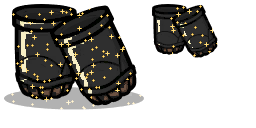
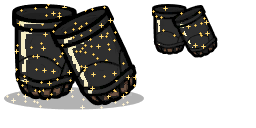
Leftovers: repo link, Self-sealing Airlocks 1.0.2, Gas-Tight Doors link
- Patreon posts and Auto Refinement's mod-options link point at
  github.com/MythraPS/oni-mods (repo renamed); unused Nexus placeholders gone.
- Self-sealing Airlocks 1.0.2 (already on the Workshop): insulated doors
  insulate again while closed.
- README: Gas-Tight Doors Workshop link.
- Bundled Patreon post draft.
- Snazzy item/body art as regenerated by the More Clothing build.

Claude-Session: https://claude.ai/code/session_015dFpymUa3LXZduRknSUUvX

diff --git a/SelfSealingAirlocksFixed/src/SelfSealingAirlocks.cs b/SelfSealingAirlocksFixed/src/SelfSealingAirlocks.cs
@@ -132,6 +132,15 @@ namespace SelfSealingAirlocks
                     HandleVector<Game.CallbackInfo>.Handle handle = Game.Instance.callbackManager.Add(new Game.CallbackInfo(cb_closed, false));
                     SimMessages.ReplaceAndDisplaceElement(cell, element.ElementID, CellEventLogger.Instance.DoorClose, mass_per_cell, element.Temperature, byte.MaxValue, 0, handle.index);
                 }
+
+                // Insulation, as the vanilla method sets it: a closed door's cells use the door's
+                // insulationModifier (what makes an Insulated Door insulate), an open door's are reset
+                // to 1. Skipping the original method skipped this too, so insulated doors conducted
+                // heat like plain tiles.
+                if (__instance.insulationModifier != 1f)
+                {
+                    SimMessages.SetInsulation(cell, is_door_open ? 1f : __instance.insulationModifier);
+                }
             }
 
             // Skip the original method

diff --git a/AutoRefinement/src/AutoRefinementOptions.cs b/AutoRefinement/src/AutoRefinementOptions.cs
@@ -12,7 +12,7 @@ namespace AutoRefinement
     // checkboxes, and ManualBuildings stays in the JSON for per-building exceptions.
     [JsonObject(MemberSerialization.OptIn)]
     [ConfigFile("AutoRefinement.json", true, false)]
-    [ModInfo("https://github.com/SattaRIP/oni-mods")]
+    [ModInfo("https://github.com/MythraPS/oni-mods")]
     [RestartRequired]
     public sealed class AutoRefinementOptions
     {

diff --git a/PATREON_POST_BUNDLE.md b/PATREON_POST_BUNDLE.md
@@ -1,0 +1,124 @@
+# Patreon post draft — ONI mods (the three without their own post)
+
+**Title:** Three more Oxygen Not Included mods, all free on the Workshop
+
+> Critter Turret and Longer Bridges are deliberately NOT here — they already have
+> their own posts. This covers the three that never got one. Their individual
+> drafts remain in each mod folder.
+>
+> Suggested images, in order: `AutoRefinement/preview.png`,
+> `CritterWrangler/preview.png`, `MoreClothing/preview2.png`.
+
+---
+
+A few more Oxygen Not Included mods that never got a proper introduction, so here
+they are together. **Every one is free and standalone** — none of them require
+each other or anything else, and none of them write to your save, so you can add
+or drop any of them mid-colony.
+
+---
+
+## ⚙ Auto Refinement
+
+Refining coal into refined carbon, crushing rock, forging glass — all of it needs
+a Duplicant standing there doing nothing interesting while the machine does the
+work. An Auto-Sweeper can already feed the building and take the product away.
+The one thing it can't do is press the button.
+
+Here's what I found while digging into it: **the game already supports this.**
+`ComplexFabricator` carries a "no operator needed" switch, and seven vanilla
+buildings already use it — the Kiln, Rubber Maker, Smoker, Chlorinator, Data
+Miner, Food Dehydrator and Uranium Centrifuge all run on their own. Auto
+Refinement extends that to everything else.
+
+- ✅ **Metal Refinery, Rock Crusher, Glass Forge, Supermaterial Refinery**,
+  presses, kilns, cooking stations, apothecaries — and buildings added by **other
+  mods**, picked up automatically
+- ✅ **Duplicants can still help.** By default the errand stays, so someone may
+  wander over and work it — it just isn't required. Normal speed on its own,
+  **half again as fast** with a Duplicant, Machinery skill on top. Both rates
+  configurable from 1% to 500%
+- ✅ Or turn the errand off entirely for **silent automation** — Duplicants
+  ignore the building completely
+- ✅ **The Desalinator empties itself**, dropping its salt where a Duplicant
+  would have left it so an Auto-Sweeper still collects it
+- ✅ **Mod Options** groups everything by category — refinement, cooking,
+  medicine, clothing, crafting, research — so you automate some and leave others
+  manual
+
+👉 https://steamcommunity.com/sharedfiles/filedetails/?id=3782032937
+
+---
+
+## 🩵 Critter Wrangler
+
+A **teal robo-miner fitted with a Rancher's net gun**. It catches surplus
+critters at range and leaves them bagged on the ground for a Duplicant to carry
+to a Critter Drop-Off — hands-off population control without killing anything.
+
+The reason it exists is a genuine gap in the vanilla game. The Critter Drop-Off's
+"auto-wrangle surplus" option **only ever fires for adults** — the check it runs
+reads a flag that the Drop-Off never sets, so it sits permanently off for babies.
+If you want to thin a nursery, you're marking critters by hand. The Wrangler
+lists babies as their own rows and handles exactly the case vanilla can't.
+
+- ✅ **It does the catching itself.** It doesn't flag a critter and wait for a
+  Rancher to walk over — it fires the net and the critter ends up bagged. **No
+  Ranching skill needed.** Duplicants still do the hauling
+- ✅ **Per-species thresholds**, with **babies counted as their own rows**, so one
+  overcrowded species gets thinned without touching the rest
+- ✅ Pick exactly what it's allowed to catch from a **species checklist**
+- ✅ **Mounts on floor, wall or ceiling** with a directional arc, like the
+  Robo-Miner — line of sight required
+- ✅ Critters that can never be wrangled — Morbs, adult Beetas, Shockworms — are
+  skipped and left out of the count, so ticking one is a harmless no-op instead
+  of jamming the building on a target it can't reach
+- ✅ Green Automation signal when every selected species is at or below threshold
+- ✅ Works submerged; not industrial machinery
+- ✅ Deliberately unhurried — catching something alive should read as work, and at
+  full speed a ranch emptied faster than you could watch
+
+Shipping menu. Refined metal, and it never targets Duplicants.
+
+👉 https://steamcommunity.com/sharedfiles/filedetails/?id=3775520629
+
+---
+
+## 🧥 More Clothing
+
+Your dupes deserve a wardrobe. Five new garments, tailored at machines you
+already own.
+
+**At the Clothing Refashionator:**
+
+- 🧥 **Winter Coat** — a Warm Sweater rebuilt into a thick insulated coat with
+  markedly better cold protection
+- 🟡 **Soft Suit** — the centrepiece: a lightweight, **checkpoint-free**
+  alternative to the Atmo Suit. Cold, heat and radiation protection, sealed
+  against airborne germs and wetness, a big air reserve dupes actually breathe
+  from, fewer bathroom trips — and a helmet that **assembles piece by piece over
+  the dupe's head** when their surroundings turn dangerous, then retracts when
+  they're safe. There's no air tank, so it delays suffocation rather than
+  preventing it: mid-game "good enough" gear by design
+- ✨ **Snazzy Swimwear** (+25 decor) and **Snazzy Rubber Boots** (+15 decor) —
+  gold-sequin upgrades of the Bionic Booster Pack garments
+
+**At the Textile Loom:**
+
+- 👞 **Shoes** (+15 decor) — black-and-gold dress shoes, pure flourish
+
+The Soft Suit and Snazzy recipes use Bionic Booster Pack garments as
+ingredients; Winter Coat and Shoes are DLC-free.
+
+👉 https://steamcommunity.com/sharedfiles/filedetails/?id=3765092134
+
+---
+
+All three are MIT-licensed and the source for every one is here:
+👉 **https://github.com/MythraPS/oni-mods**
+
+Free for everyone, and staying that way — if you'd like to support more mods like
+these, a pledge keeps the lights on. 💛 Bug reports, ideas and "could it also
+do X" welcome in the comments.
+
+*Auto Refinement bundles PLib by Peter Han (MIT) for its options screen.*

diff --git a/LongerBridges/PATREON_POST.md b/LongerBridges/PATREON_POST.md
@@ -26,8 +26,7 @@ Bridge (鹊桥) setup, the switch is **seamless**: the liquid/gas/wire bridges y
 already placed keep working, no rebuild needed.
 
 👉 **Steam Workshop:** https://steamcommunity.com/sharedfiles/filedetails/?id=3751316059
-👉 **Nexus Mods:** [LINK AFTER UPLOADING]
-👉 **Source (MIT):** https://github.com/SattaRIP/oni-mods
+👉 **Source (MIT):** https://github.com/MythraPS/oni-mods
 
 Free for everyone — if you'd like to support more mods like this, a pledge keeps
 the lights on. 💛 Bug reports and ideas welcome in the comments.

diff --git a/CritterTurret/PATREON_POST.md b/CritterTurret/PATREON_POST.md
@@ -27,8 +27,7 @@ Find it in the **Shipping** menu next to the Robo-Miner. 120 W, refined metal.
 **Fully standalone — no other mods required.**
 
 👉 **Steam Workshop:** https://steamcommunity.com/sharedfiles/filedetails/?id=3756399185
-👉 **Nexus Mods:** [LINK AFTER UPLOADING]
-👉 **Source (MIT):** https://github.com/SattaRIP/oni-mods
+👉 **Source (MIT):** https://github.com/MythraPS/oni-mods
 
 Free for everyone — if you'd like to support more mods like this, a pledge keeps
 the lights on. 💛 Bug reports and ideas welcome in the comments.

diff --git a/MoreClothing/PATREON_POST.md b/MoreClothing/PATREON_POST.md
@@ -33,8 +33,7 @@ Bionic Booster Pack garments as ingredients; Winter Coat and Shoes are
 DLC-free.
 
 👉 **Steam Workshop:** https://steamcommunity.com/sharedfiles/filedetails/?id=3765092134
-👉 **Nexus Mods:** [LINK AFTER UPLOADING]
-👉 **Source (MIT):** https://github.com/SattaRIP/oni-mods
+👉 **Source (MIT):** https://github.com/MythraPS/oni-mods
 
 Free for everyone — if you'd like to support more mods like this, a pledge
 keeps the lights on. 💛 Bug reports and ideas welcome in the comments.

diff --git a/LongerBridges/PATREON_POST_1.1.0.md b/LongerBridges/PATREON_POST_1.1.0.md
@@ -30,7 +30,7 @@ Details that matter:
   everything else works with zero dependencies
 
 👉 **Steam Workshop:** https://steamcommunity.com/sharedfiles/filedetails/?id=3751316059
-👉 **Source (MIT):** https://github.com/SattaRIP/oni-mods
+👉 **Source (MIT):** https://github.com/MythraPS/oni-mods
 
 Free as always — pledges fund the coffee that fuels the next building. 💛
 Ideas and bug reports welcome in the comments.

diff --git a/SelfSealingAirlocksFixed/CHANGELOG_1.0.2.md b/SelfSealingAirlocksFixed/CHANGELOG_1.0.2.md
@@ -1,0 +1,6 @@
+# Self-sealing Airlocks (U59 Fix) 1.0.2
+
+- Fixed: Insulated Doors stopped insulating with this mod and passed heat like an ordinary tile.
+  The mod replaces the game's door-sealing step, and that step is also where a closed door's
+  cells get the door's insulation. The mod now sets it the same way the game does: insulated
+  while closed, normal while open.

diff --git a/AutoRefinement/PATREON_POST.md b/AutoRefinement/PATREON_POST.md
@@ -37,8 +37,7 @@ Refinement extends that to everything else.
 **Fully standalone — no other mods required.**
 
 👉 **Steam Workshop:** https://steamcommunity.com/sharedfiles/filedetails/?id=3782032937
-👉 **Nexus Mods:** [LINK AFTER UPLOADING]
-👉 **Source:** https://github.com/SattaRIP/oni-mods
+👉 **Source:** https://github.com/MythraPS/oni-mods
 
 ---
 

diff --git a/README.md b/README.md
@@ -47,7 +47,7 @@ hands-off critter population control. Standalone.
 Found in the **Shipping** menu next to the Robo-Miner. 120 W, refined metal.
 
 ### Gas-Tight Doors
-Steam Workshop: link to follow
+[Steam Workshop](https://steamcommunity.com/sharedfiles/filedetails/?id=3824303711)
 
 Doors stay gas- and liquid-tight while Duplicants walk through them.
 
